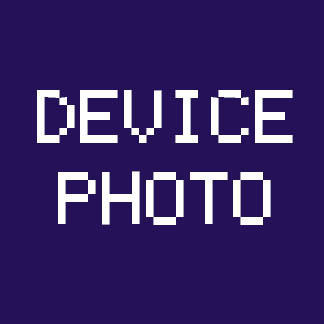
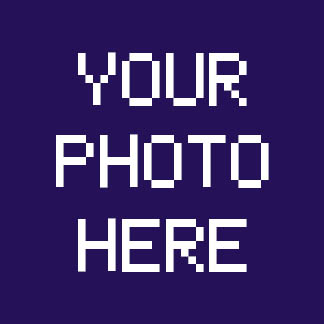
Move choose device image option into the slide show
The option to choose your own image can now be done by simply
clicking the label of the your-photo-here image.

Changed region(s): [[0.0926, 0.1543, 0.9259, 0.8642]]

diff --git a/assets/js/tile-quake.js b/assets/js/tile-quake.js
@@ -609,14 +609,20 @@ const gameSetupOptions = {
         const puzzleChoicesHTML = puzzleImages.map((image, index) => {
           let imageClass = 'puzzle-image__image';
           let imageSource = `assets/images/puzzles/${image.file_name}`;
+          let imageLabel = `<label class="puzzle-image__text">${image.title}</label>`;
           if (index === puzzleGame.puzzleChoiceData.length -1) { 
             imageClass += ' puzzle-image__device';
-            if (puzzleGame.deviceImageChosen) { imageSource = puzzleGame.devicePuzzleImage; }
+            if (puzzleGame.deviceImageChosen) {
+              imageSource = puzzleGame.devicePuzzleImage;
+            }
+            imageLabel = `<label for="puzzle-upload" class="puzzle-image__add">${image.title}</label>
+                          <input id="puzzle-upload" type="file" onchange="gameSetupOptions.processDeviceImage();">
+                         `;
           }
           return `<div class="puzzle-image__container puzzle-image__fade">
                     <div class="puzzle-image__number">${image.id + 1} / ${puzzleImages.length}</div>
                     <img class="${imageClass}" src="${imageSource}" width="324">
-                    <div class="puzzle-image__text">${image.title}</div>
+                    ${imageLabel}
                   </div>`;
         }).join('');
 
@@ -663,7 +669,7 @@ const gameSetupOptions = {
     let finalCtx = finalCanvas.getContext("2d");
     const screenWidth = document.querySelector(".wrapper").offsetWidth;
     if (screenWidth < 768) { puzzleImageSize = 300; } else { puzzleImageSize = 600; }
-    const item = document.querySelector('#uploader').files[0];  //get the image selected
+    const item = document.querySelector('#puzzle-upload').files[0];  //get the image selected
     let reader = new FileReader();  //create a FileReader
     //image turned to base64-encoded Data URI.
     reader.readAsDataURL(item);
@@ -711,6 +717,10 @@ const gameSetupOptions = {
         root.style.setProperty('--chosenImage', imgUpload);
         const slideshowDeviceImage = document.querySelector('.puzzle-image__device');
         slideshowDeviceImage.src = url;
+
+        const deviceImageLabel = document.querySelector('.puzzle-image__add');
+        deviceImageLabel.textContent = 'Click to Change';
+        
         // set the device image chosen to the active puzzle image
         puzzleGame.puzzleImageIndex = puzzleGame.puzzleChoiceData.length;
         gameSetupOptions.selectPuzzleImage(0);

diff --git a/index.html b/index.html
@@ -86,11 +86,9 @@
             </div>
           </div> -->
           <div class="device-image">
-            <p>OR USE DEVICE IMAGE</p>
-            <input id="uploader" class="device-image__button" type="file" onchange="gameSetupOptions.processDeviceImage();">
-            <!-- <button id="choose--image" class="device-image__button">CHOOSE</button> -->
-            <!-- <div class="device-image__choice">
-            </div> -->
+            <p>HOW TO PLAY</p>
+            <!-- <label for="uploader" class="puzzle-image__upload">CUSTOM IMAGE</label> -->
+            <!-- <input id="uploader" type="file" onchange="gameSetupOptions.processDeviceImage();"> -->
           </div>
           <div class="puzzle-image">
             <p>SELECT IMAGE: <span class="puzzle-image__value">1</span></p>

diff --git a/assets/css/style.css b/assets/css/style.css
@@ -297,6 +297,21 @@ div {
   border-radius: 5px;
 }
 
+.puzzle-image__add {
+  position: absolute;
+  bottom: -12px;
+  width: 70%;
+  left: 50%;
+  margin-left: -35%;
+  padding: 6px 0;
+  color: var(--gameRed);
+  background: yellow;
+  font-size: 14px;
+  text-align: center;
+  border-radius: 5px;
+  cursor: pointer;
+}
+
 .puzzle-image__number {
   position: absolute;
   top: 0;
@@ -337,6 +352,17 @@ div {
   background-image: var(--chosenImage);
   background-repeat: no-repeat;
 } */
+
+input[type="file"] {
+  display: none;
+}
+
+.puzzle-image__upload {
+  display: inline-block;
+  padding: 6px 12px;
+  border: 1px solid #ccc;
+  cursor: pointer;
+}
 
 .device-image__button {
   width: 12.6em;
